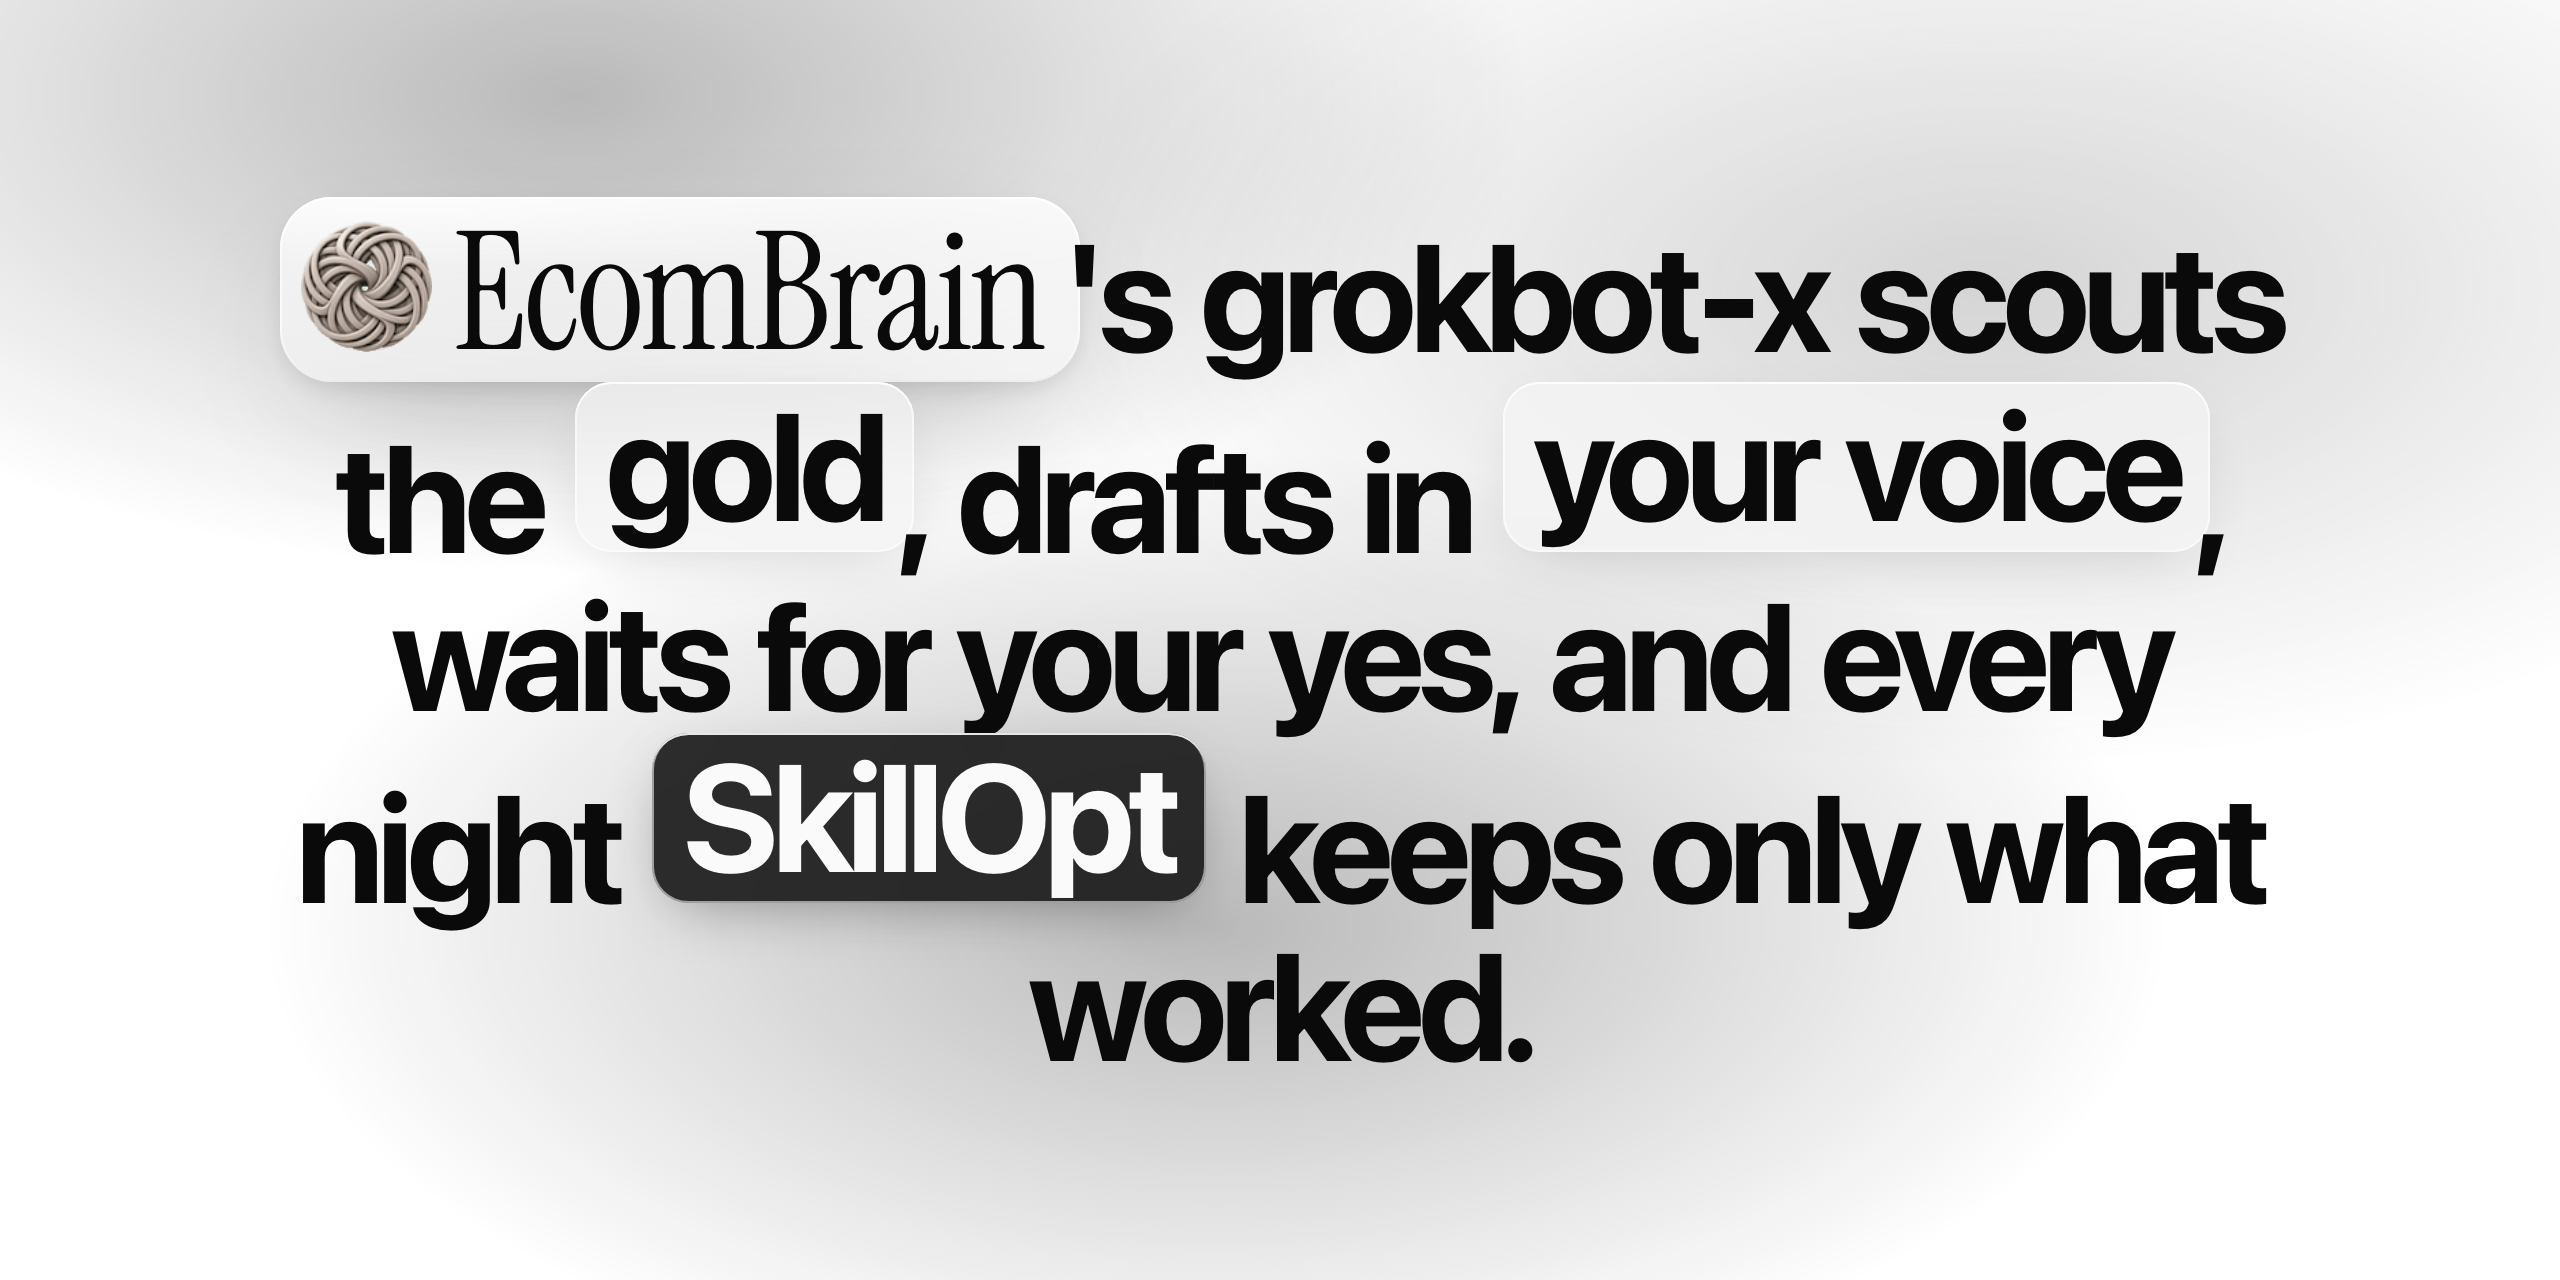
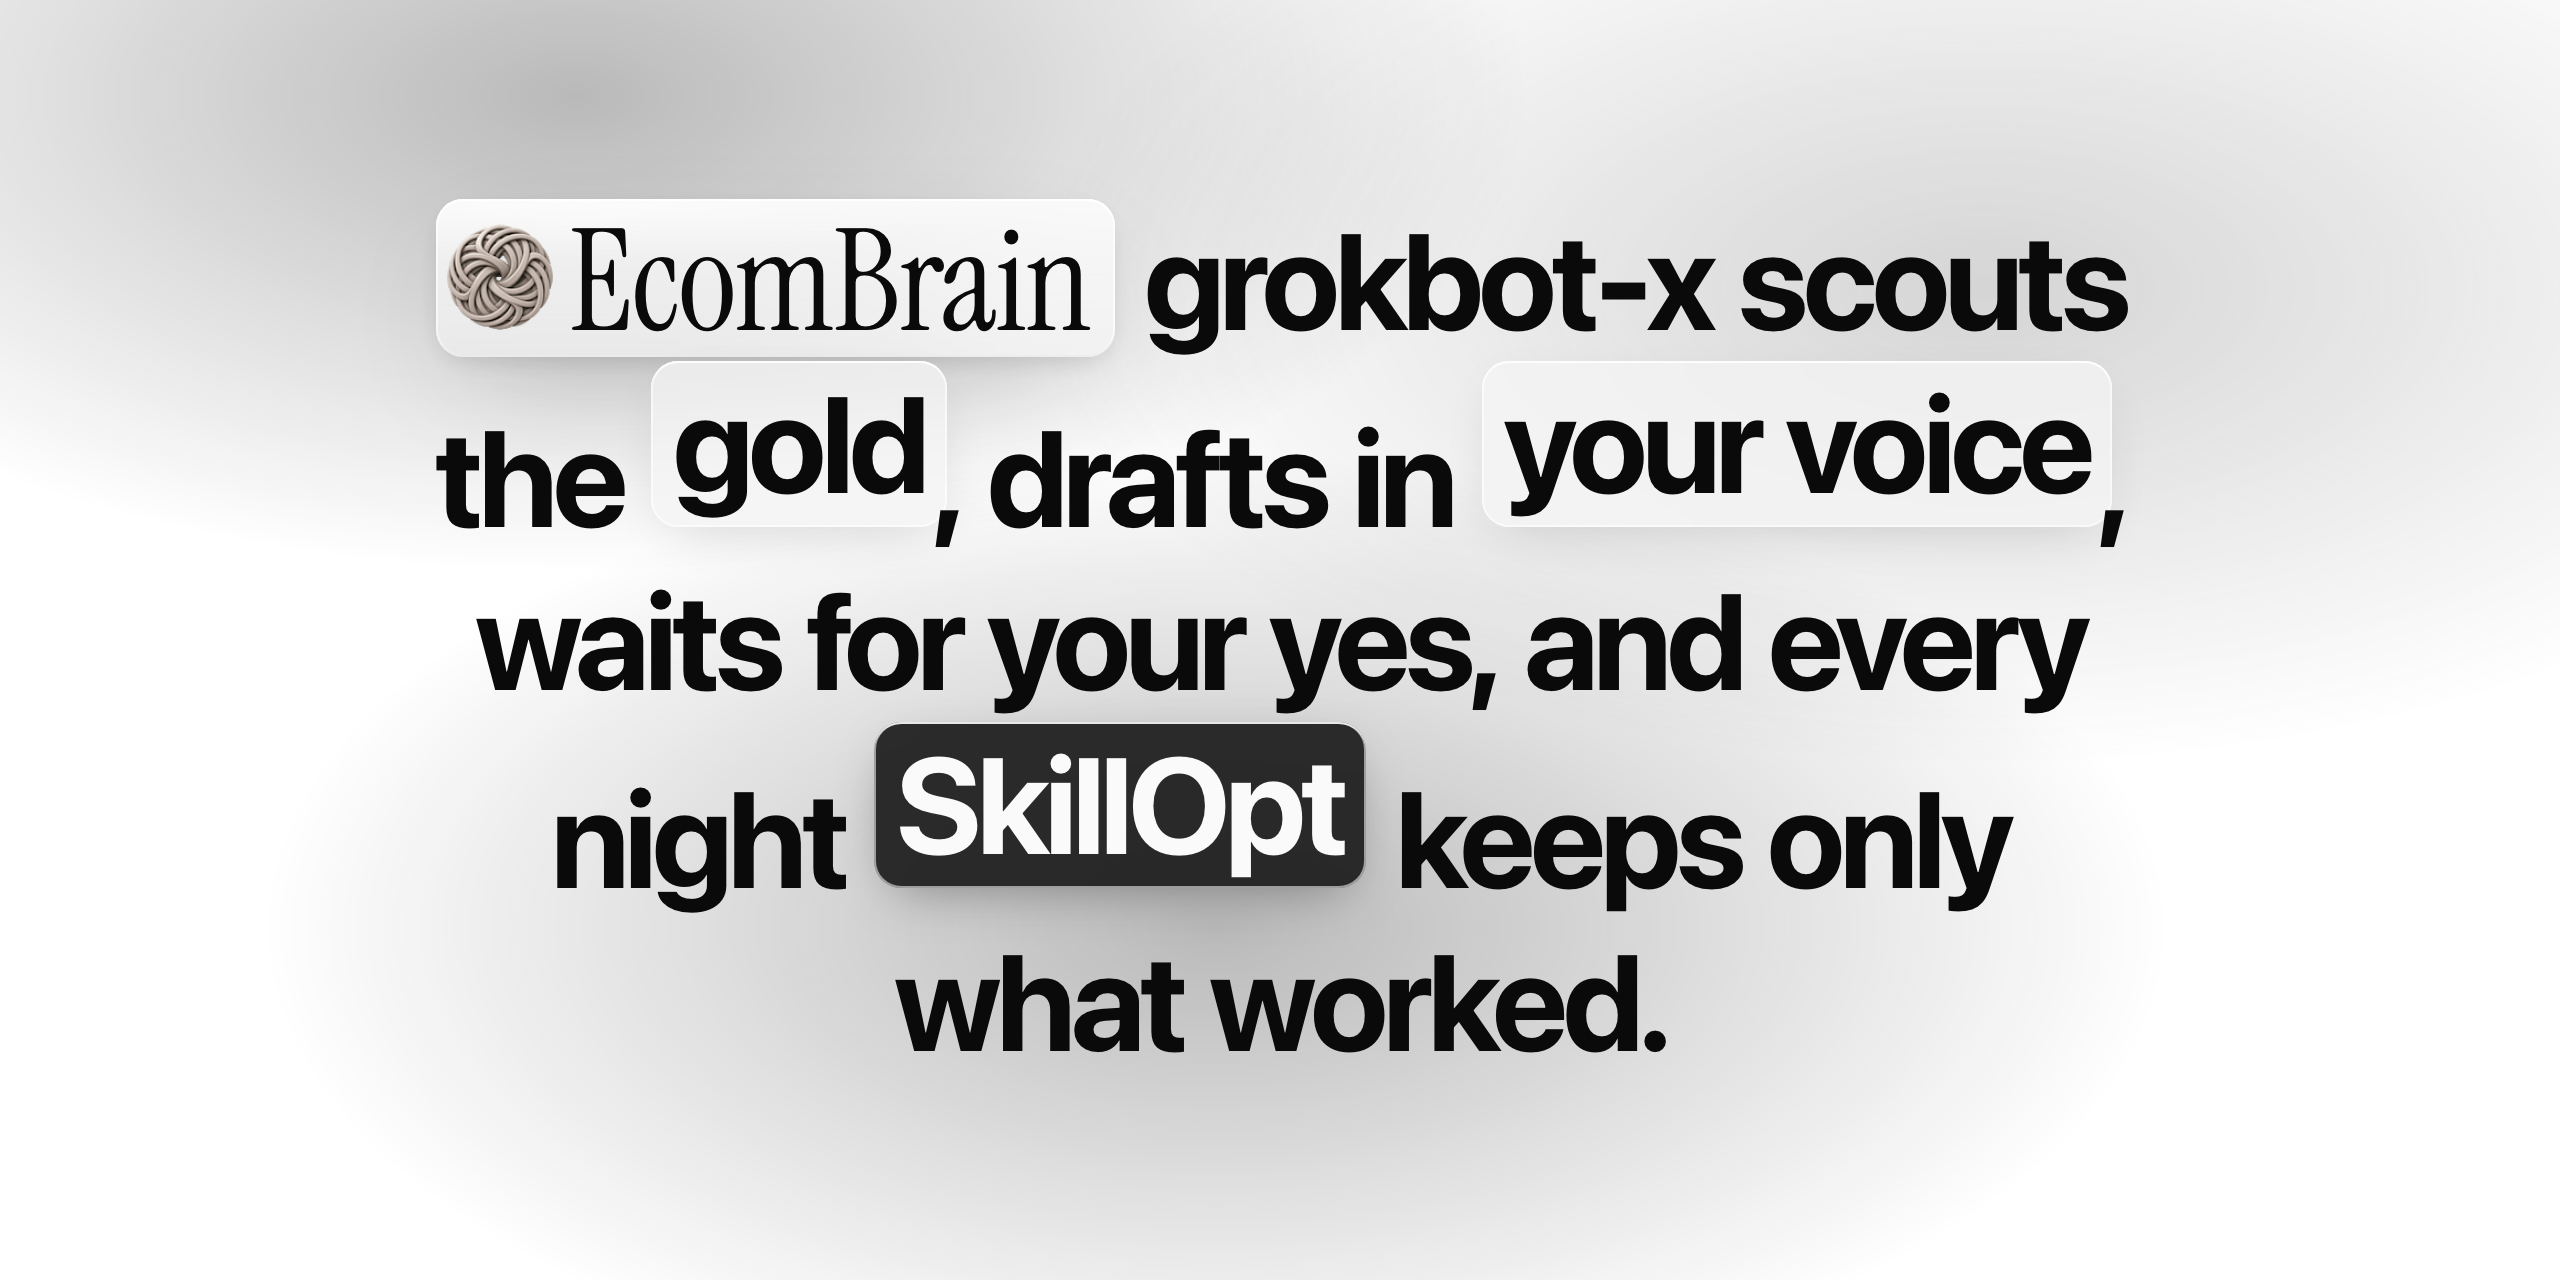
Headline: lockup chip without the stray 's, smaller type, no overlapping chips

Changed region(s): [[0.0938, 0.4688, 0.9062, 0.8438], [0.0938, 0.1562, 0.9062, 0.4375]]

diff --git a/site/index.html b/site/index.html
@@ -48,26 +48,26 @@ button:focus-visible,a:focus-visible{outline:2px solid var(--focus);outline-offs
 
 /* headline */
 .stage{flex:1;display:flex;align-items:center;justify-content:center;text-align:center;padding:28px 0 36px}
-h1{margin:0;font-weight:700;font-size:clamp(2.45rem,7vw,6.3rem);line-height:1.04;letter-spacing:-.045em;word-spacing:.04em;max-width:17ch;margin-inline:auto}
+h1{margin:0;font-weight:700;font-size:clamp(2rem,5vw,4.25rem);line-height:1.2;letter-spacing:-.04em;word-spacing:.03em;max-width:19ch;margin-inline:auto}
 .w{display:inline-block;opacity:0;will-change:transform,opacity,filter}
 .w.on{opacity:1}
 .pu{margin-left:-.12em}
 .nw{white-space:nowrap}
 .w.in{animation:land .62s cubic-bezier(.16,1,.3,1) both}
-.chip{position:relative;display:inline-block;padding:.02em .2em .06em;margin:0 .02em;border-radius:.24em;
+.chip{position:relative;display:inline-block;padding:0 .16em .02em;margin:0 .02em;border-radius:.2em;
   background:var(--tint);box-shadow:inset 0 1px 0 rgba(255,255,255,.75),inset 0 0 0 1px rgba(255,255,255,.55),0 .12em .4em -.14em var(--glow);
   -webkit-backdrop-filter:blur(14px) saturate(170%);backdrop-filter:blur(14px) saturate(170%);overflow:hidden}
 .chip.y{--tint:rgba(245,245,245,.72);--glow:rgba(0,0,0,.16)}
 .chip.g{--tint:rgba(245,245,245,.72);--glow:rgba(0,0,0,.16)}
 .chip.b{--tint:rgba(23,23,23,.9);--glow:rgba(0,0,0,.4);color:var(--primary-foreground)}
 .chip.shine::after{content:"";position:absolute;inset:0;background:linear-gradient(105deg,transparent 30%,rgba(255,255,255,.55) 48%,transparent 62%);transform:translateX(-120%);animation:shine 3.6s cubic-bezier(.4,0,.2,1) .6s infinite}
-.chip.lg{display:inline-flex;align-items:center;gap:.14em;padding:.05em .24em .09em .14em;border-radius:.34em;color:var(--ink);text-decoration:none;vertical-align:baseline;
+.chip.lg{display:inline-flex;align-items:center;gap:.12em;padding:0 .18em .02em .08em;border-radius:.2em;color:var(--ink);text-decoration:none;vertical-align:baseline;
   background:linear-gradient(180deg,rgba(255,255,255,.82),rgba(255,255,255,.38));
   box-shadow:inset 0 1px 0 rgba(255,255,255,.95),inset 0 -1px 0 rgba(0,0,0,.05),inset 0 0 0 1px rgba(255,255,255,.65),0 .06em .2em -.06em rgba(0,0,0,.16),0 .3em .9em -.32em rgba(0,0,0,.28);
   -webkit-backdrop-filter:blur(20px) saturate(180%);backdrop-filter:blur(20px) saturate(180%)}
 .chip.lg::before{content:"";position:absolute;inset:0;border-radius:inherit;pointer-events:none;background:radial-gradient(120% 70% at 20% 0%,rgba(255,255,255,.7),transparent 55%)}
-.chip.lg img{position:relative;width:.86em;height:.86em;display:block;border-radius:50%}
-.chip.lg .wm{position:relative;top:.04em;font-family:"Instrument Serif",Georgia,serif;font-weight:400;font-size:1.08em;letter-spacing:-.02em;line-height:1}
+.chip.lg img{position:relative;width:.78em;height:.78em;display:block;border-radius:50%}
+.chip.lg .wm{position:relative;top:.04em;font-family:"Instrument Serif",Georgia,serif;font-weight:400;font-size:1.04em;letter-spacing:-.01em;line-height:1.1}
 .out{animation:out .42s cubic-bezier(.4,0,1,1) both}
 @keyframes land{0%{opacity:0;transform:translateY(.18em);filter:blur(10px)}100%{opacity:1;transform:none;filter:blur(0)}}
 @keyframes out{0%{opacity:1;filter:blur(0)}100%{opacity:0;transform:translateY(-.12em);filter:blur(10px)}}
@@ -119,7 +119,7 @@ pre{margin:0;padding:16px 20px 20px;font:12.5px/1.65 var(--mono);color:var(--ink
 <div class="aurora" aria-hidden="true"><span></span><span></span><span></span></div>
 <main>
   <div class="stage">
-    <h1><span class="sr">EcomBrain's grokbot-x scouts the gold, drafts in your voice, waits for your yes, and every night SkillOpt keeps only what worked.</span><span id="line" aria-hidden="true"></span></h1>
+    <h1><span class="sr">EcomBrain grokbot-x scouts the gold, drafts in your voice, waits for your yes, and every night SkillOpt keeps only what worked.</span><span id="line" aria-hidden="true"></span></h1>
   </div>
 
   <section class="use" aria-label="Get started">
@@ -162,7 +162,7 @@ pre{margin:0;padding:16px 20px 20px;font:12.5px/1.65 var(--mono);color:var(--ink
 (function(){
   "use strict";
   // t: text, s: glass chip tint (y|g|b), p: trailing punctuation
-  var T=[{t:"EcomBrain",s:"lg",p:"'s",brand:1},{t:"grokbot-x"},{t:"scouts"},{t:"the"},{t:"gold",s:"y",p:","},
+  var T=[{t:"EcomBrain",s:"lg",brand:1},{t:"grokbot-x"},{t:"scouts"},{t:"the"},{t:"gold",s:"y",p:","},
     {t:"drafts"},{t:"in"},{t:"your voice",s:"g",p:","},
     {t:"waits"},{t:"for"},{t:"your"},{t:"yes,"},{t:"and"},{t:"every"},{t:"night"},
     {t:"SkillOpt",s:"b"},{t:"keeps"},{t:"only"},{t:"what"},{t:"worked."}];
